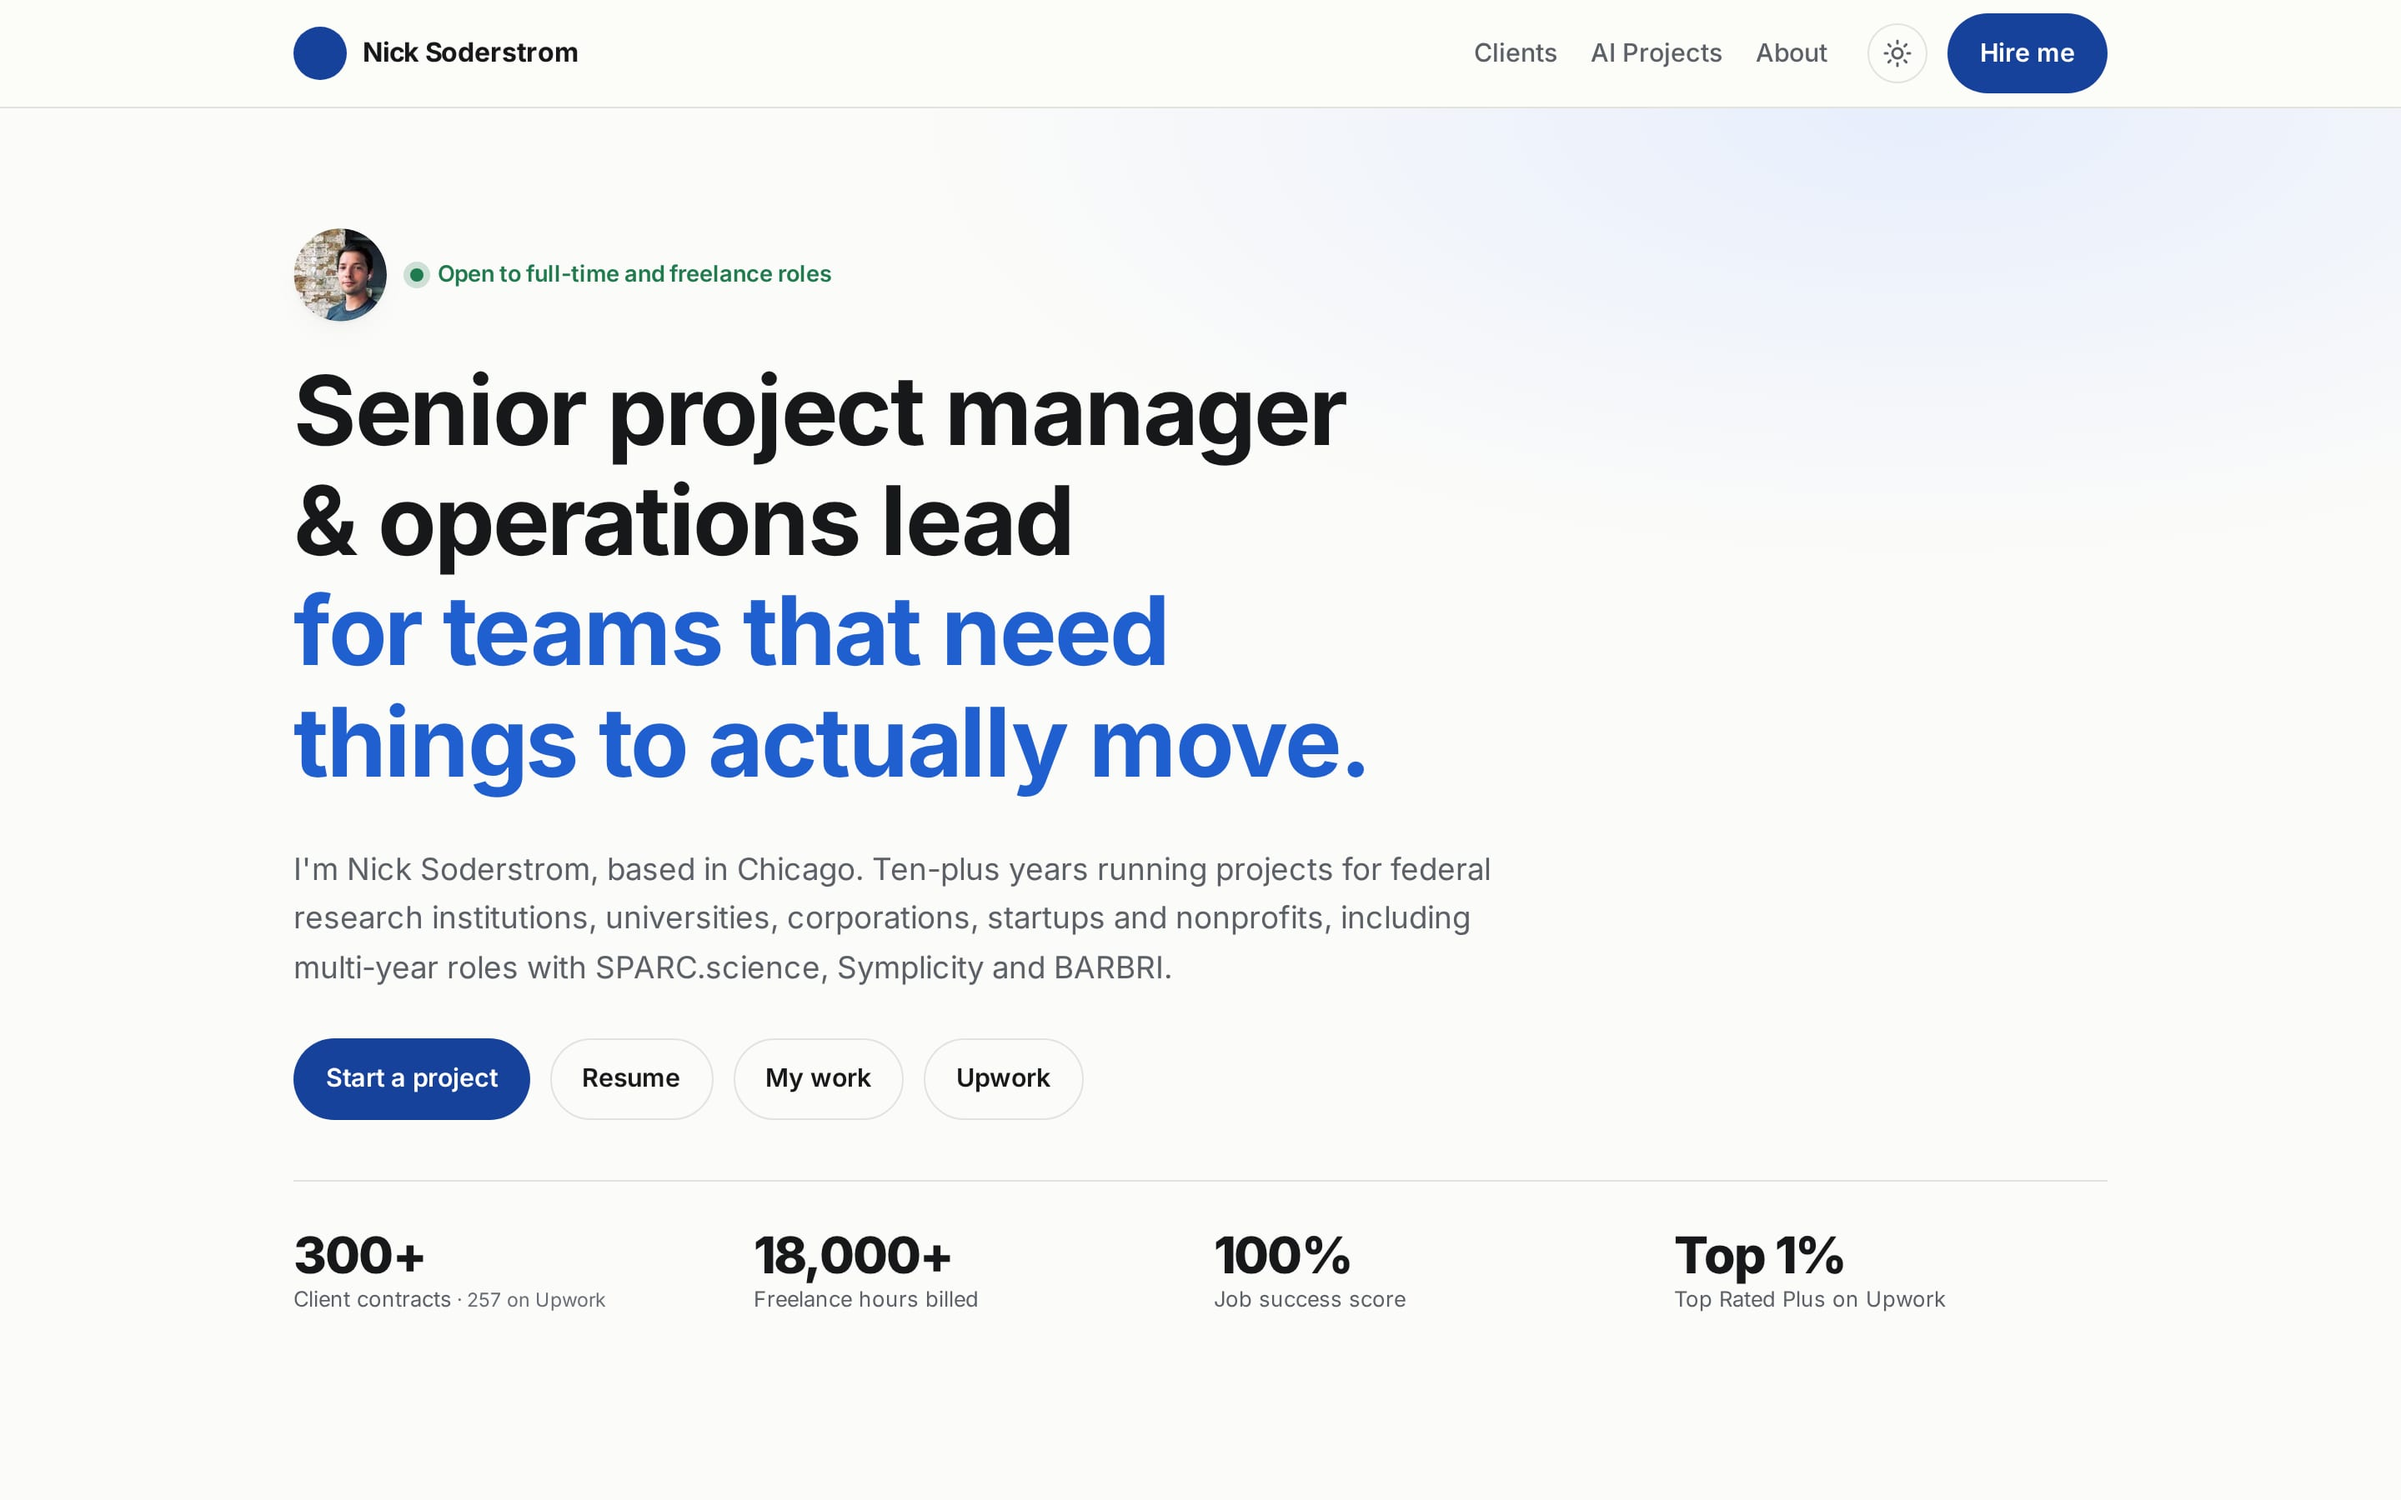
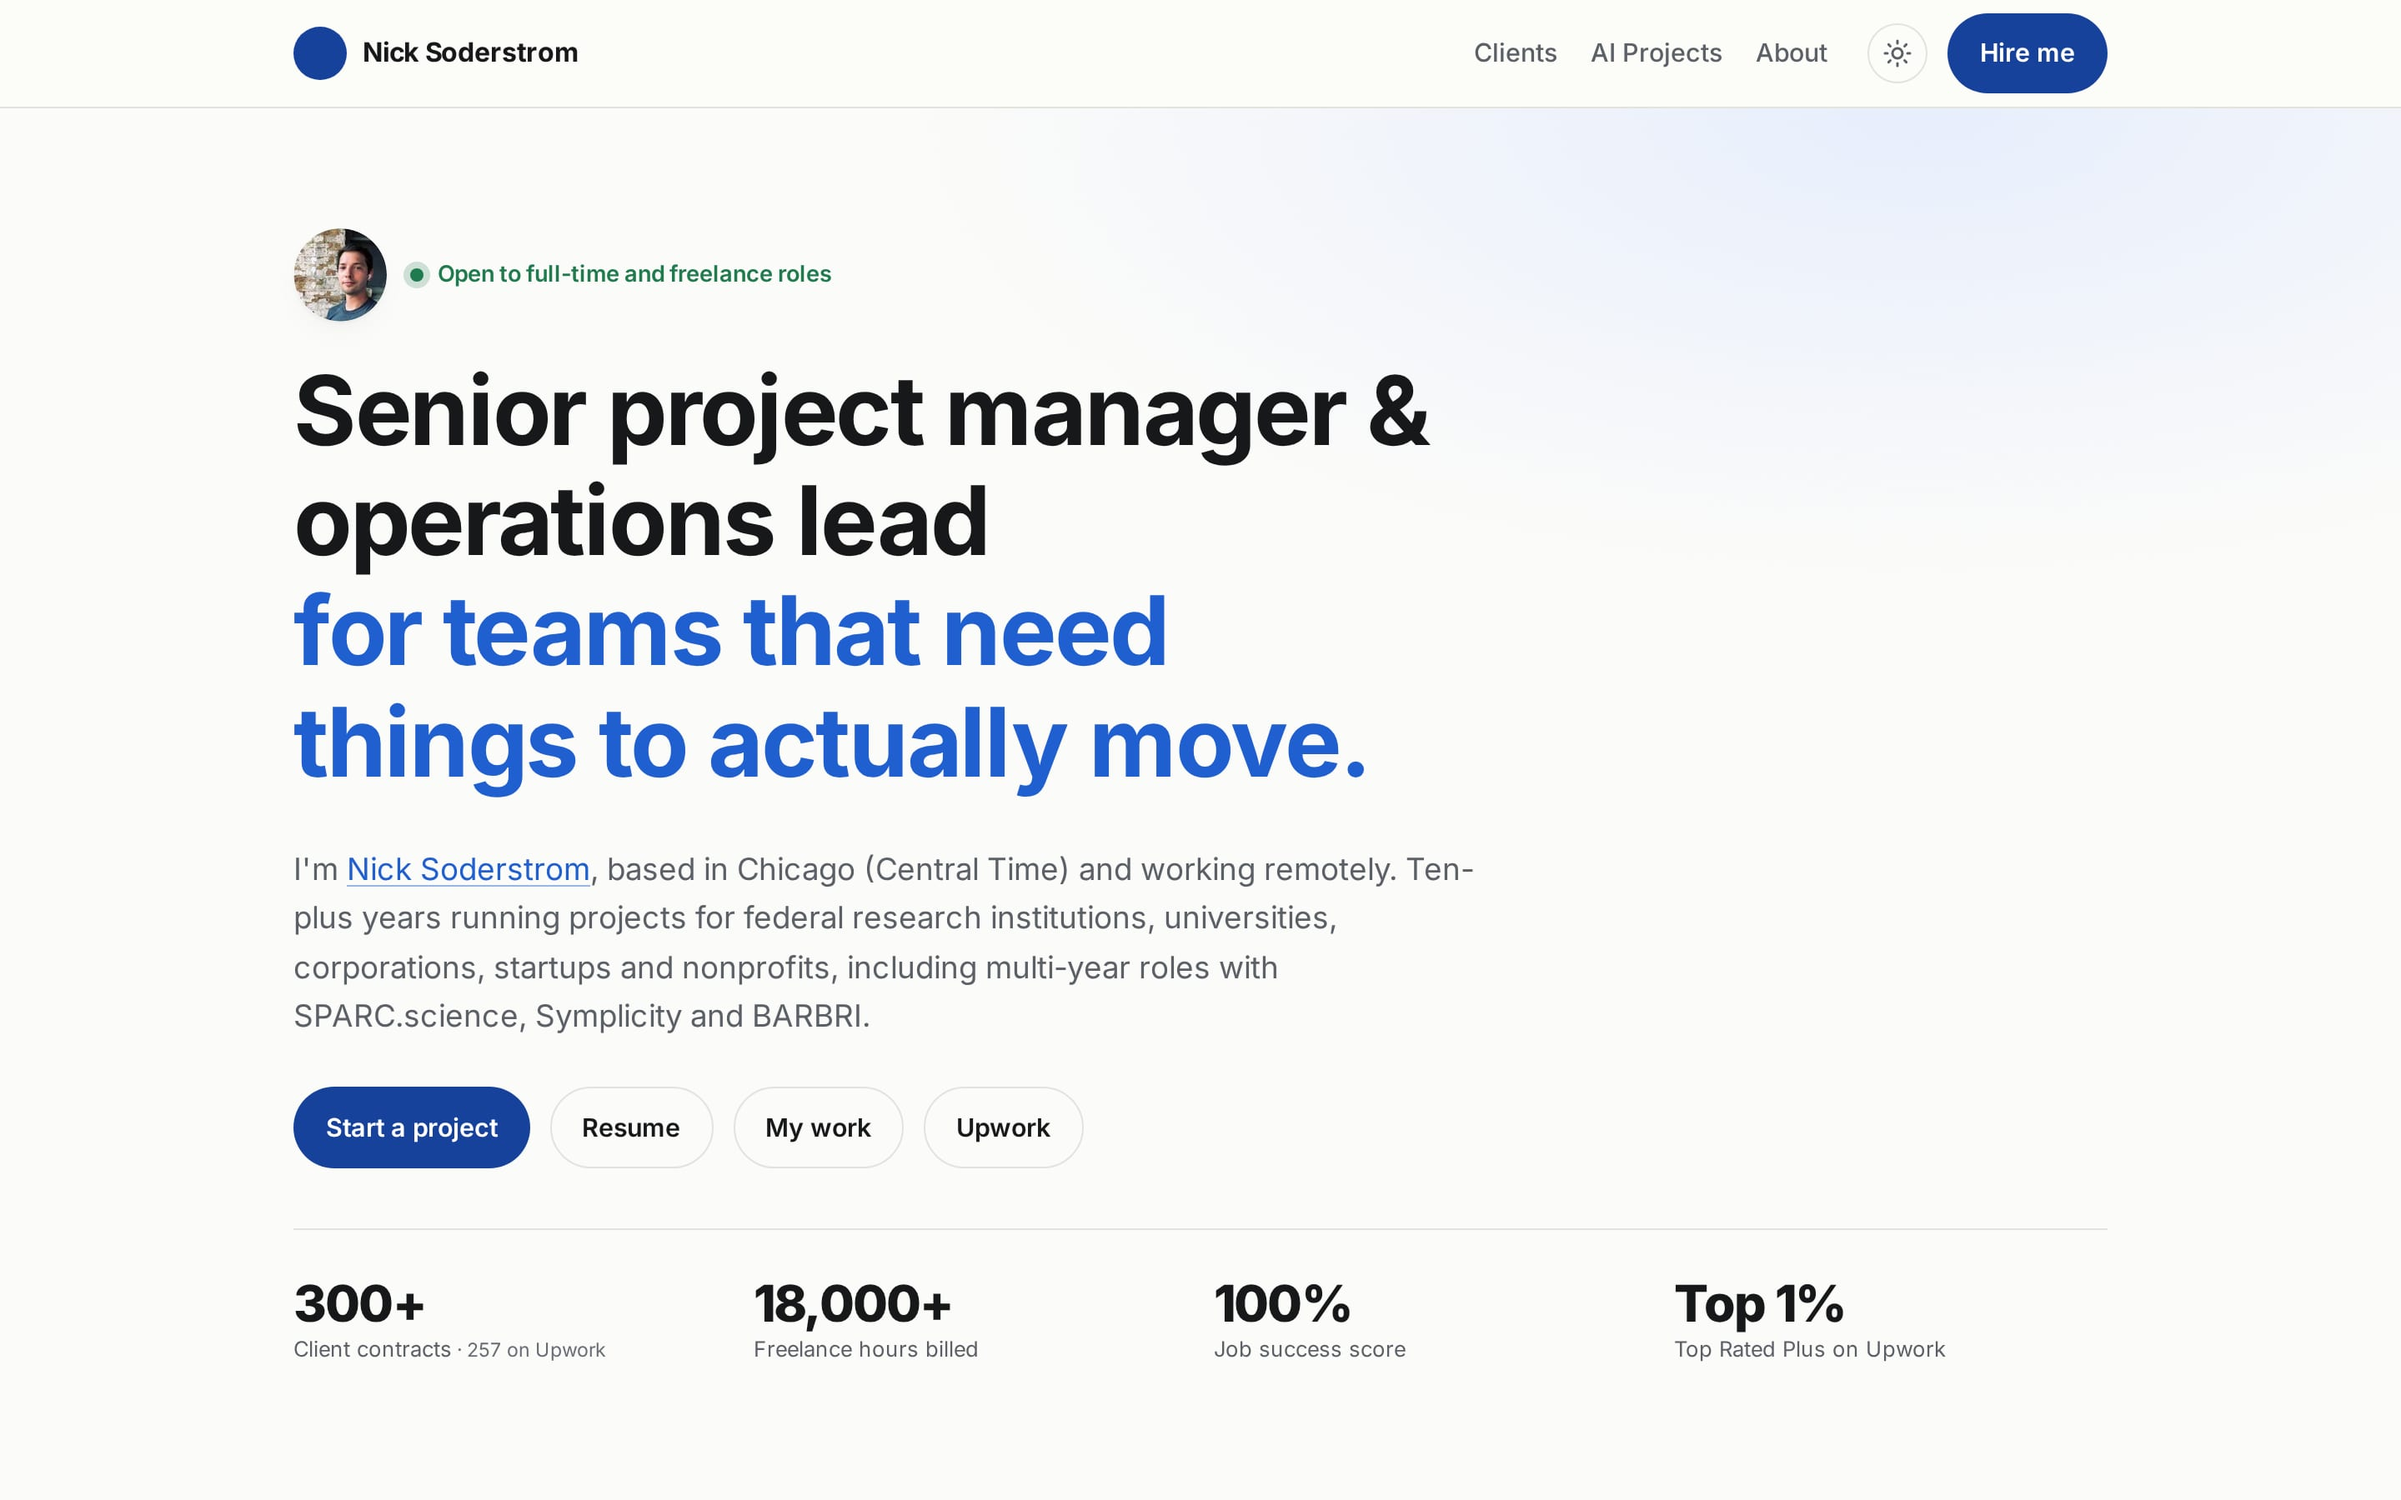
Port review fixes: home hero line break, resume browser bar, roofer link
- Home: the hero H1 wraps normally again on screens wider than phones, so
  the global heading balance no longer moves "&" onto line 2. Main's
  phone-only balance from #69 is unchanged
- Retook site-home.jpg (npm run build && npm run shots && npm run build)
  so the /apps/ "This website" shot shows main's line break again
- Resume: a small script sets both theme-color metas from a saved theme,
  as Nav's syncTheme does on every other page, so a phone's browser bar
  matches a dark or light resume chosen against the system setting
- GHL: the new "Start with the roofer" link on /ghl/saas/ and
  /ghl/coaching/ is underlined like the page's other inline links, so it
  doesn't rely on colour alone (WCAG 1.4.1)

Claude-Session: https://claude.ai/code/session_01SshPNcExFXGimAbG9GCpcw

diff --git a/src/styles/ghl.css b/src/styles/ghl.css
@@ -1237,6 +1237,7 @@
   max-width: 75ch;
   font-size: 0.92rem;
 }
+.gx-howto li a,
 .gx-howto-hurry a,
 .gx-hero-sub a,
 .gx-real a,
